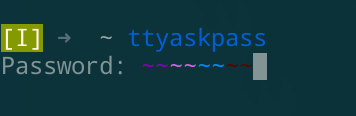
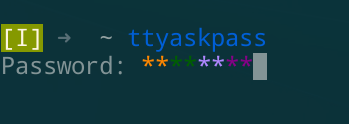
release 1.0.1
- add README
- add LICENSE
- add example
- update Cargo.toml
- update ttyaskpass.png

Changed region(s): [[0.2579, 0.2328, 0.7736, 0.6983], [0.0, 0.181, 0.3725, 0.6466], [0.1433, 0.2586, 0.2006, 0.3621]]

diff --git a/src/bin/ttyaskpass.rs b/src/bin/ttyaskpass.rs
@@ -10,7 +10,7 @@ use ttyaskpass::askpass;
 
 #[inline]
 fn start(prompt: &str) -> io::Result<()> {
-    match askpass::<Bytes>(prompt, '~') {
+    match askpass::<Bytes>(prompt, '*') {
         Ok(output) => {
             let mut stdout = io::stdout();
             stdout.write(&output)?;

diff --git a/examples/readme.rs b/examples/readme.rs
@@ -1,0 +1,7 @@
+extern crate ttyaskpass;
+use ttyaskpass::askpass;
+
+fn main() {
+	let pass = askpass::<Vec<u8>>("Password:", '*').unwrap();
+	println!("Your password is {}", String::from_utf8(pass).unwrap());
+}

diff --git a/src/lib.rs b/src/lib.rs
@@ -20,7 +20,7 @@ use colorhash::{ hash_as_ansi, hash_chars_as_ansi };
 use readtty::{ RawTTY, read_from_tty };
 
 
-/// askpass
+/// askpass.
 ///
 /// ### Fail When:
 /// - IO Error

diff --git a/README.md b/README.md
@@ -2,3 +2,31 @@ ttyaskpass
 ==========
 
 ![ttyaskpass](ttyaskpass.png)
+
+a safely passphrase prompt library and application,
+support [Chroma-Hash](https://github.com/mattt/Chroma-Hash/)-like colorhash,
+use [seckey](https://github.com/quininer/seckey) protecte password.
+
+usage
+-----
+
+library:
+
+```
+extern crate ttyaskpass;
+use ttyaskpass::askpass;
+
+fn main() {
+	let pass = askpass::<Vec<u8>>("Password:", '*').unwrap();
+	println!("Your password is {}", String::from_utf8(pass).unwrap());
+}
+```
+
+see [examples/readme.rs](examples/readme.rs) and [ttyaskpass.rs](src/bin/ttyaskpass.rs).
+
+
+application:
+
+```
+env SSH_ASKPASS=ttyaskpass ssh-add </dev/null
+```
